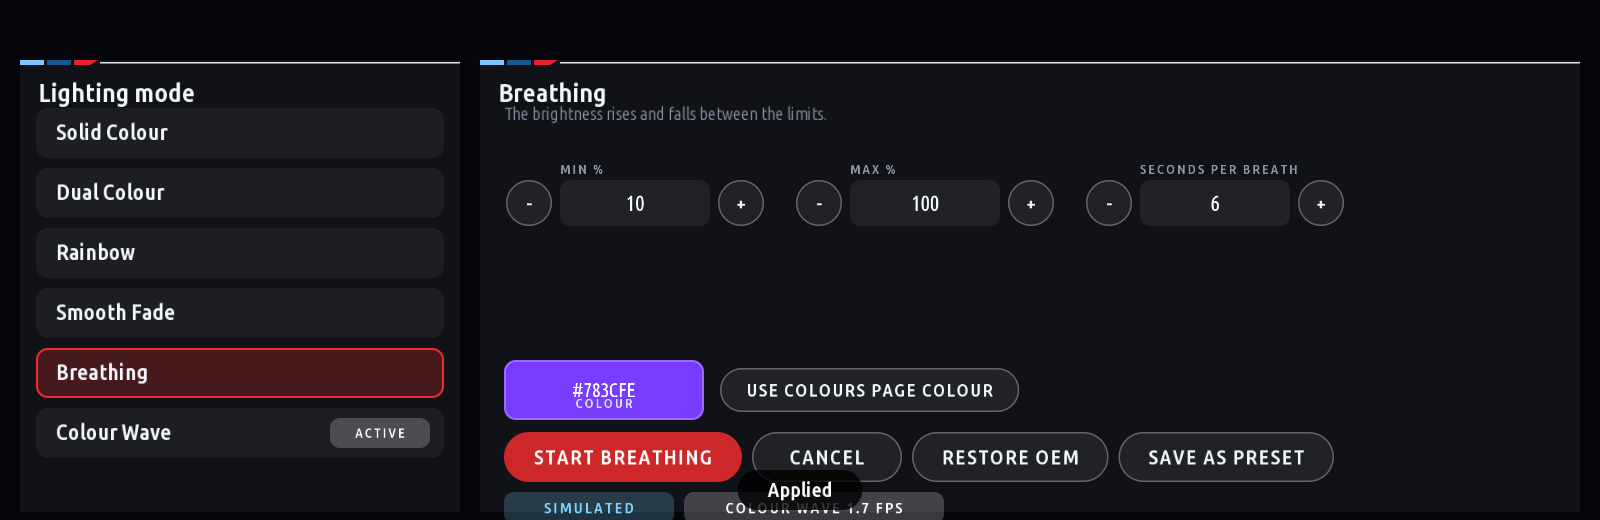
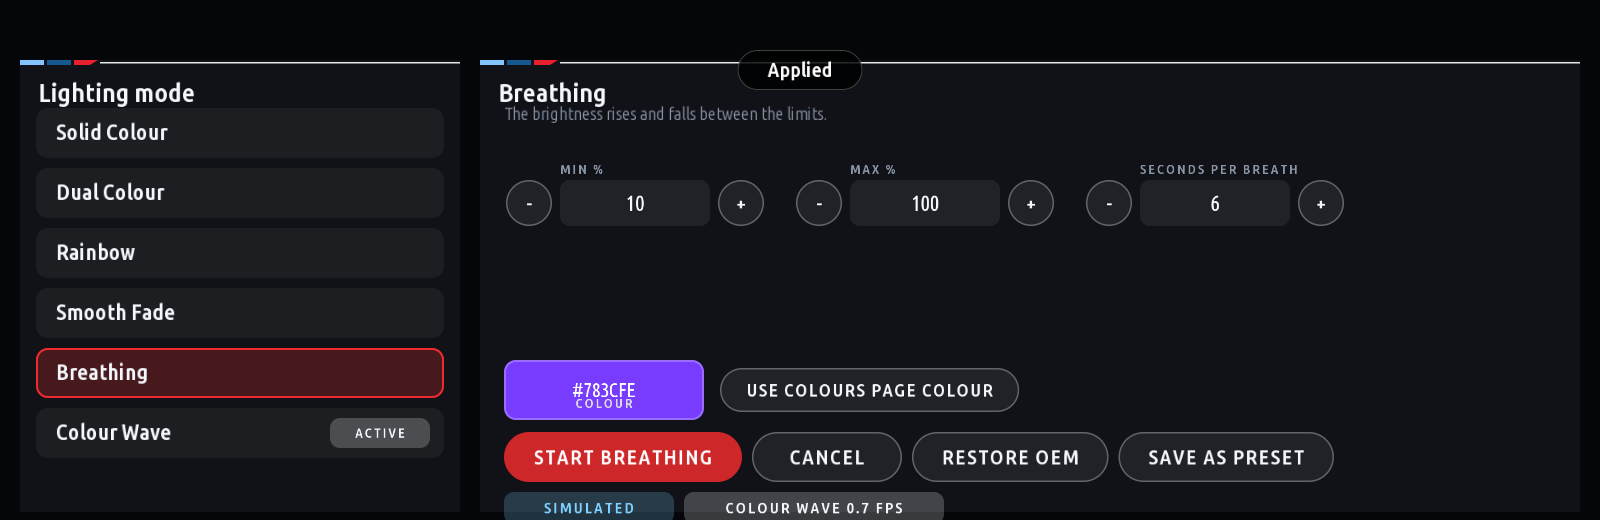
Toast over the title line, clear of the action rows

Changed region(s): [[0.4375, 0.8923, 0.5625, 0.9846], [0.4688, 0.0923, 0.5312, 0.1538]]

diff --git a/bmw-g20-idrive-rgb/app/ambient_rgb/main.js b/bmw-g20-idrive-rgb/app/ambient_rgb/main.js
@@ -426,8 +426,10 @@ mgu.run({
             try { [drawColours, drawDual, drawModes, drawFavourites, drawDiagnostics][page](cv, t); } catch (e) { log.error('draw page ' + page, e); }
             if (flash && Date.now() < flash.until) {
                 const w = Math.min(1500, cv.textWidth(flash.text, 20, { font: 'bold' }) + 60);
-                cv.roundRect(800 - w / 2, 470, w, 40, 20, withAlpha('#000000', 0.78));
-                cv.text(flash.text, 800, 497, 20, '#ffffff', { align: 'center', font: 'bold' });
+                // over the page's title line, clear of the action rows at the bottom
+                cv.roundRect(800 - w / 2, 50, w, 40, 20, withAlpha('#000000', 0.82));
+                cv.strokeRoundRect(800 - w / 2, 50, w, 40, 20, 1, withAlpha('#ffffff', 0.25));
+                cv.text(flash.text, 800, 77, 20, '#ffffff', { align: 'center', font: 'bold' });
             } else flash = null;
             return ctx.ui.image('MAIN_GFX', cv);
         });
